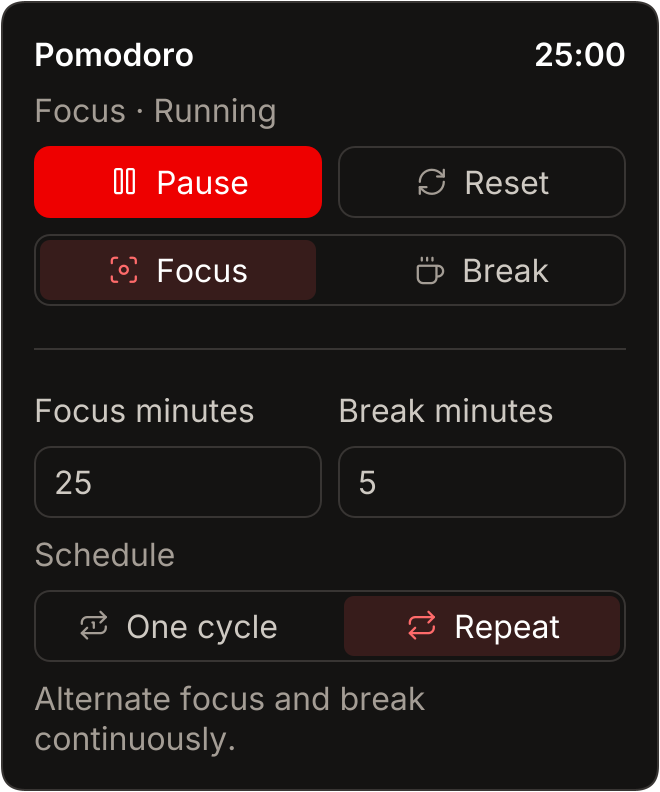
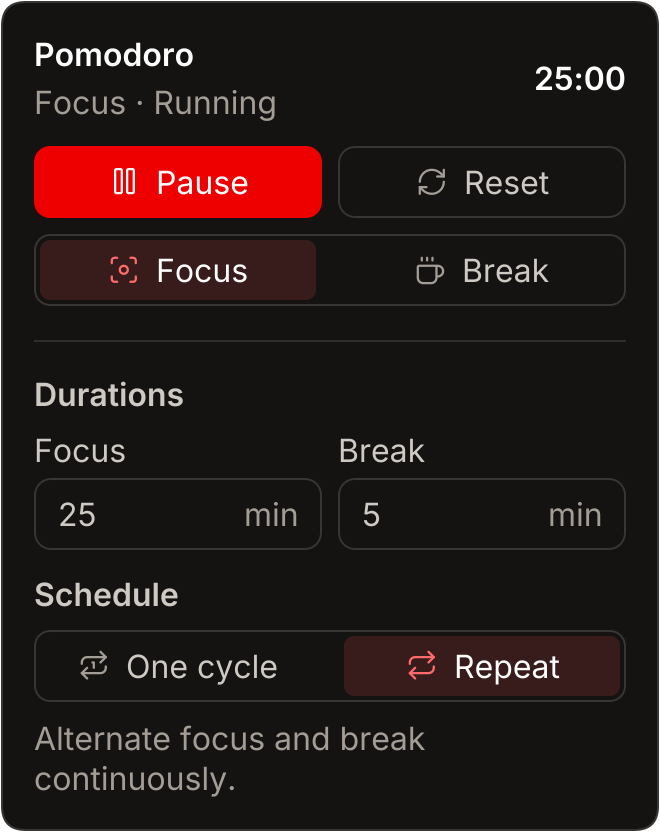
Align site dividers and refresh the diyalamp landing page

diff --git a/website/src/app/page.tsx b/website/src/app/page.tsx
@@ -5,7 +5,7 @@ import {
 import AppScreenshot from "@/components/app-screenshot";
 import LampMark from "@/components/lamp-mark";
 import SiteFooter from "@/components/site-footer";
-import { desktopRelease } from "@/lib/desktop-release";
+import { desktopRelease, screenshotRevision } from "@/lib/desktop-release";
 import { decimalMegabytes } from "@/lib/mac-downloads";
 
 const github = desktopRelease.source;
@@ -42,17 +42,17 @@ const workflow = [
 
 const featureCaptures = [
   {
-    name: "connections-hover", title: "Connections graph", width: 824, height: 1616, crop: true,
+    name: "connections-hover", title: "Connections graph", width: 818, height: 1616, crop: true,
     alt: "The Connections panel highlights the links and direction arrows for Composite Indexes.",
     instruction: "Open Connections for a note. Hover over a dot to see which notes link to it and where its links lead.",
   },
   {
-    name: "pomodoro-controls", title: "Pomodoro timer", width: 660, height: 792,
+    name: "pomodoro-controls", title: "Pomodoro timer", width: 660, height: 832,
     alt: "A running 25-minute focus timer with a five-minute break and Repeat selected.",
     instruction: "Open the timer in the toolbar. Set the focus and break lengths, then choose One cycle or Repeat.",
   },
   {
-    name: "accent-palette", title: "Accent colors", width: 612, height: 372,
+    name: "accent-palette", title: "Accent colors", width: 612, height: 416,
     alt: "The accent menu shows red, blue, yellow, green, white, and a custom color option.",
     instruction: "Open the color menu to pick a preset or set a custom accent for the dark workspace.",
   },
@@ -107,10 +107,10 @@ export default function Home() {
             <div className="hero-copy">
               <div>
                 <p className="simple-kicker"><span className="status-dot" aria-hidden="true" />Local Markdown editor for macOS</p>
-                <h1 id="hero-heading">Your commonplace book.</h1>
+                <h1 id="hero-heading">A commonplace book for steady practice.</h1>
               </div>
               <div className="hero-summary">
-                <p className="simple-intro">Collect what you read and learn in a folder of Markdown notes. Write with live formatting, search your notes, and follow connections between them.</p>
+                <p className="simple-intro">Keep the passages, ideas, and references you want to return to. Find connections between your notes and turn them into drafts in your own Markdown files.</p>
                 <ul className="hero-promises" aria-label="Price, license, and account">
                   <li>Free</li><li>Open source</li><li>No sign-up</li>
                 </ul>
@@ -158,7 +158,7 @@ export default function Home() {
             <h3 className="feature-gallery-title">A closer look at the editor.</h3>
             <div className="feature-gallery">
               {featureCaptures.map(({ name, title, width, height, crop, wide, alt, instruction }) => {
-                const src = `/screenshots/${name}.webp?v=${desktopRelease.version}`;
+                const src = `/screenshots/${name}.webp?v=${screenshotRevision}`;
                 return (
                   <figure key={name} className="feature-capture" data-wide={wide || undefined}>
                     <a className="feature-preview" data-crop={crop || undefined} href={src} aria-label={`View full-size screenshot. ${alt}`}>

diff --git a/website/src/app/globals.css b/website/src/app/globals.css
@@ -55,6 +55,7 @@
 
 :root {
   --site-width: 1200px;
+  --site-edge: clamp(8px, 1vw, 16px);
   --site-gutter: clamp(18px, 3.5vw, 44px);
   --diya-line: #ffffff26;
   --diya-radius: 10px;
@@ -84,7 +85,7 @@ a:focus-visible, button:focus-visible, summary:focus-visible {
 .landing-brand { display: inline-flex; align-items: center; justify-self: start; gap: 8px; white-space: nowrap; font-weight: 600; }
 .lamp-mark { position: relative; display: inline-block; width: 1em; height: 1em; flex-shrink: 0; }
 .lamp-mark img { display: block; width: 100%; height: 100%; object-fit: contain; }
-.landing-brand .brand-lamp { width: 28px; height: 28px; flex-shrink: 0; }
+.landing-brand .brand-lamp { width: 32px; height: 32px; flex-shrink: 0; }
 @supports (mask-image: url("/lamp-mark.webp")) {
   @media (prefers-reduced-motion: no-preference) {
     .landing-brand .lamp-mark::after {
@@ -116,10 +117,21 @@ a:focus-visible, button:focus-visible, summary:focus-visible {
 .footer-socials svg { width: 16px; height: 16px; }
 .footer-socials a:hover { color: #fff; background: #ffffff0f; }
 .production-credit { color: var(--site-text); white-space: nowrap; }
-.production-credit img { display: inline-block; width: auto; height: 1cap; vertical-align: baseline; }
+.production-credit img {
+  display: inline-block;
+  width: auto;
+  /* The wordmark has 58 solid pixel rows in its 60-pixel canvas. */
+  height: calc(60 * 1cap / 58);
+  vertical-align: calc(-1cap / 58);
+}
 
 /* The landing uses the same dark surfaces as the desktop screenshots. */
-.simple-site { min-height: 100vh; }
+.simple-site, .alternatives-page {
+  width: min(calc(100% - var(--site-edge) - var(--site-edge)), var(--site-width));
+  min-height: 100vh;
+  margin-inline: auto;
+  border-inline: 1px solid var(--diya-line);
+}
 .simple-site main > section { border-bottom: 1px solid var(--diya-line); padding-block: clamp(34px, 5.2vw, 70px); }
 .simple-site main > .simple-hero {
   padding-block: clamp(30px, 3.8vw, 54px) clamp(34px, 5.2vw, 70px);

diff --git a/website/src/app/alternatives/alternatives.css b/website/src/app/alternatives/alternatives.css
@@ -8,7 +8,12 @@
 .alternatives-page .comparison-subtitle { color: var(--site-text); }
 .alternatives-page .comparison-kicker { font-size: .875rem; font-weight: 600; }
 .alternatives-page .comparison-lead { max-width: 66ch; margin-bottom: 20px; }
-.alternatives-page .comparison-section { padding-block: clamp(22px, 4vw, 40px); border-top: 1px solid var(--diya-line); }
+.alternatives-page .comparison-section {
+  margin-inline: calc(-1 * var(--site-gutter));
+  padding: clamp(22px, 4vw, 40px) var(--site-gutter);
+  border-top: 1px solid var(--diya-line);
+}
+.alternatives-page > .landing-footer { border-top: 1px solid var(--diya-line); }
 .alternatives-page .comparison-section h2 { margin: 0 0 16px; }
 .mac-download-table { width: 100%; margin-top: 16px; border-collapse: collapse; table-layout: fixed; }
 .mac-download-table :is(th, td) {

diff --git a/website/src/components/app-screenshot.tsx b/website/src/components/app-screenshot.tsx
@@ -1,4 +1,4 @@
-import { desktopRelease } from "@/lib/desktop-release";
+import { screenshotRevision } from "@/lib/desktop-release";
 
 const captures = {
   workspace: {
@@ -25,7 +25,7 @@ export default function AppScreenshot({
   const { src, sizes, alt } = captures[name];
   const width = 2882;
   const height = 1920;
-  const versioned = (url: string) => `${url}?v=${desktopRelease.version}`;
+  const versioned = (url: string) => `${url}?v=${screenshotRevision}`;
   const srcSet = [720, 1440].map((candidate) =>
     `${versioned(src.replace('.webp', `-${candidate}.webp`))} ${candidate}w`,
   );

diff --git a/website/src/lib/desktop-release.ts b/website/src/lib/desktop-release.ts
@@ -1,5 +1,6 @@
 /** Public desktop release and architecture-specific installers. */
 const version = '1.4.1';
+export const screenshotRevision = '1.4.1-r2';
 const source = 'https://github.com/diyalamp/diyalamp';
 const assets = `${source}/releases/download/v${version}`;
 
